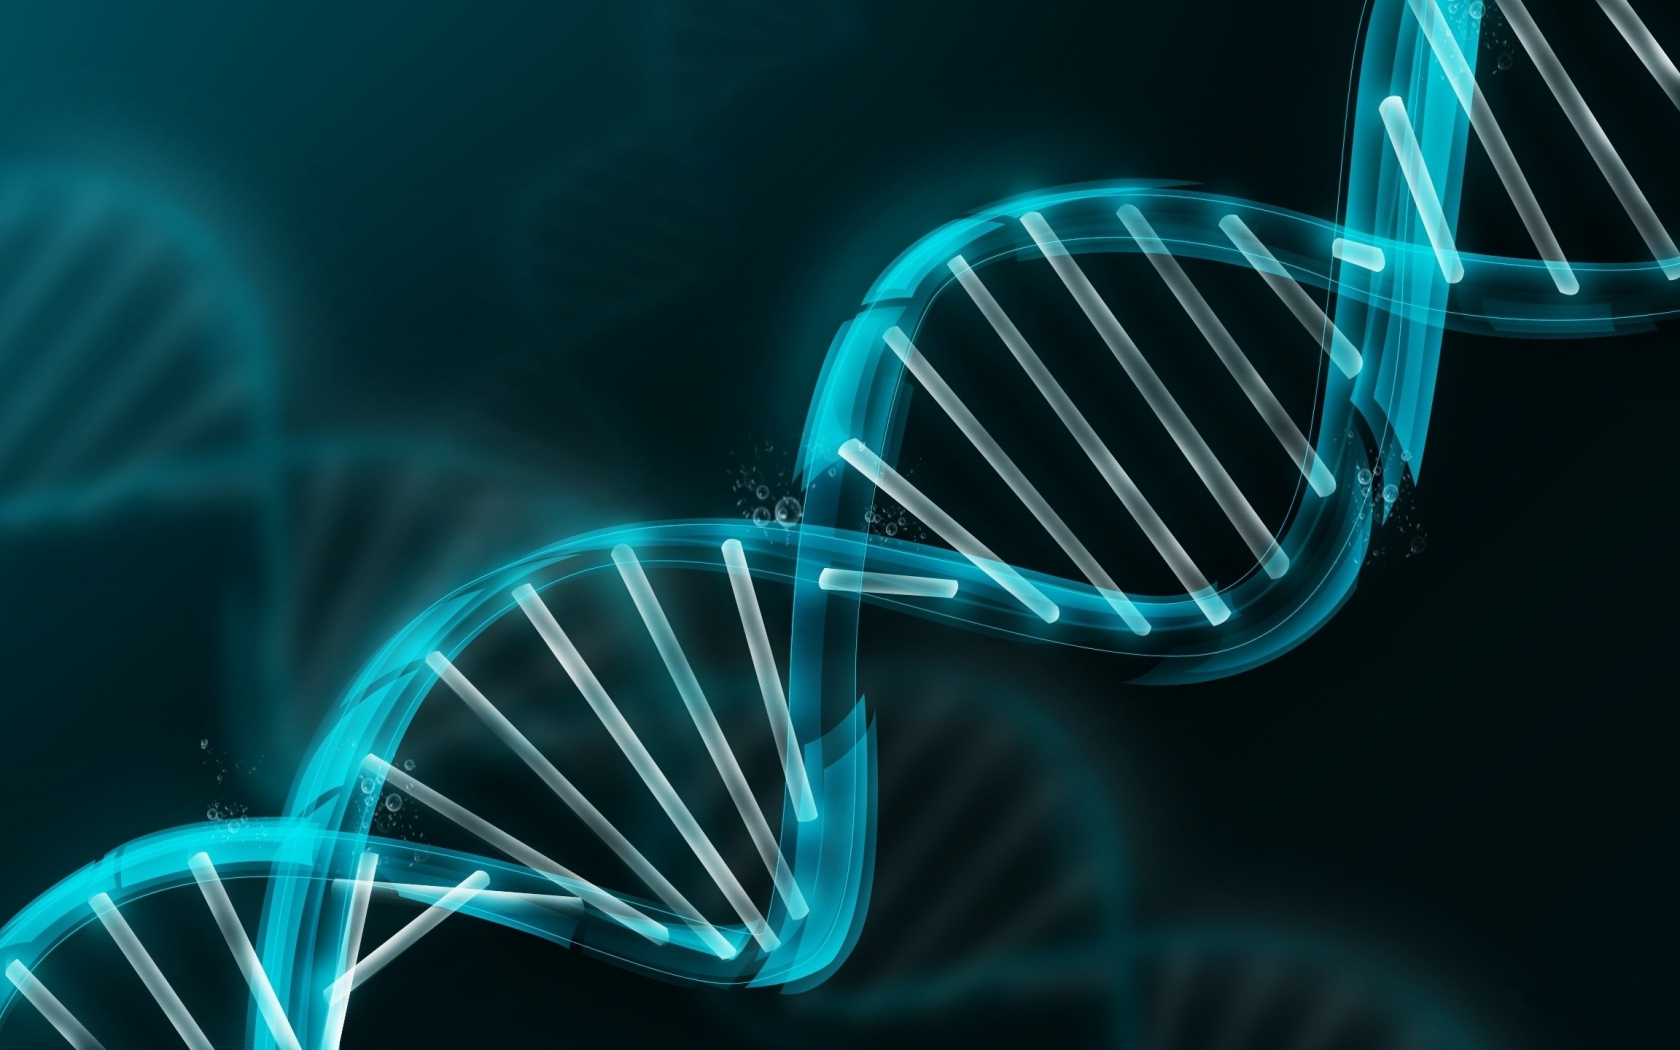
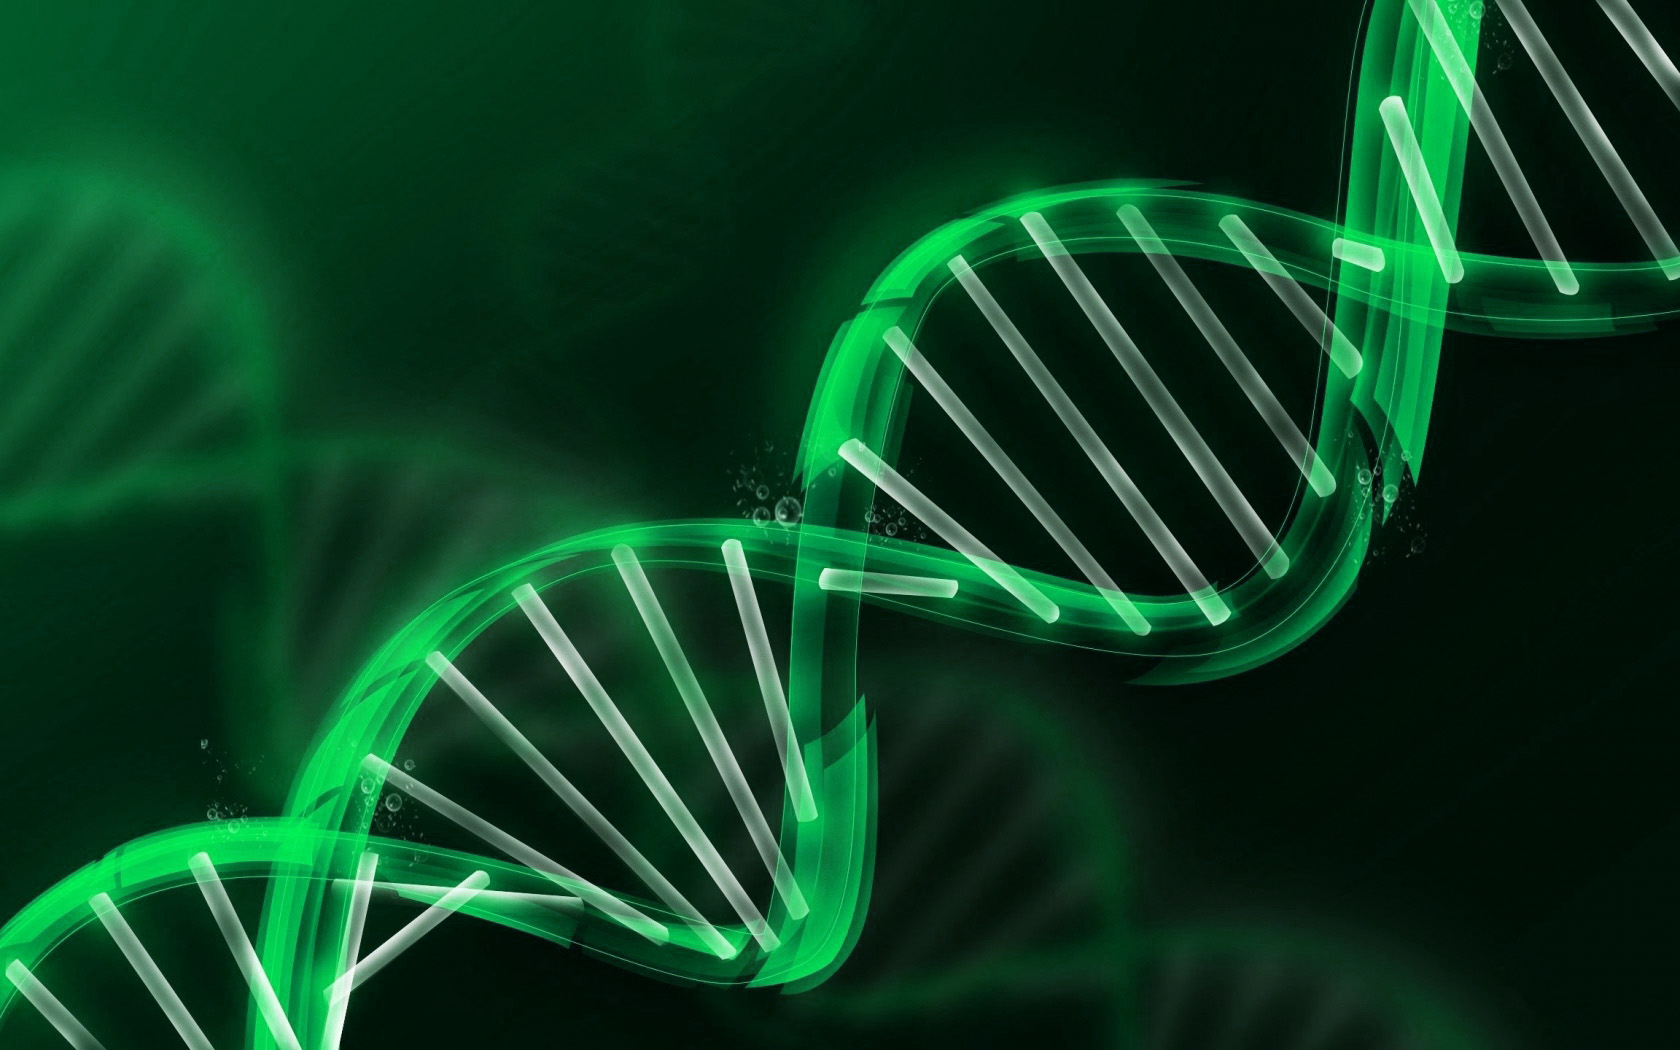
Verde

diff --git a/resources/views/partials/template.blade.php b/resources/views/partials/template.blade.php
@@ -25,7 +25,7 @@
   <![endif]-->
 </head>
 <div id="particles-js"></div>
-<body class="skin-blue layout-top-nav" style="height: auto; min-height: 100%;">
+<body class="skin-blue layout-top-nav skin-green" style="height: auto; min-height: 100%;">
   <div class="wrapper" style="height: auto; min-height: 100%;">
     @include('partials.header')
     <!-- Full Width Column -->

diff --git a/resources/views/partials/header.blade.php b/resources/views/partials/header.blade.php
@@ -1,4 +1,4 @@
-<header class="main-header" style="z-index: 9999">
+<header class="main-header" style="z-index: 9999;">
     <nav class="navbar navbar-static-top">
       <div class="container">
         <div class="navbar-header">
